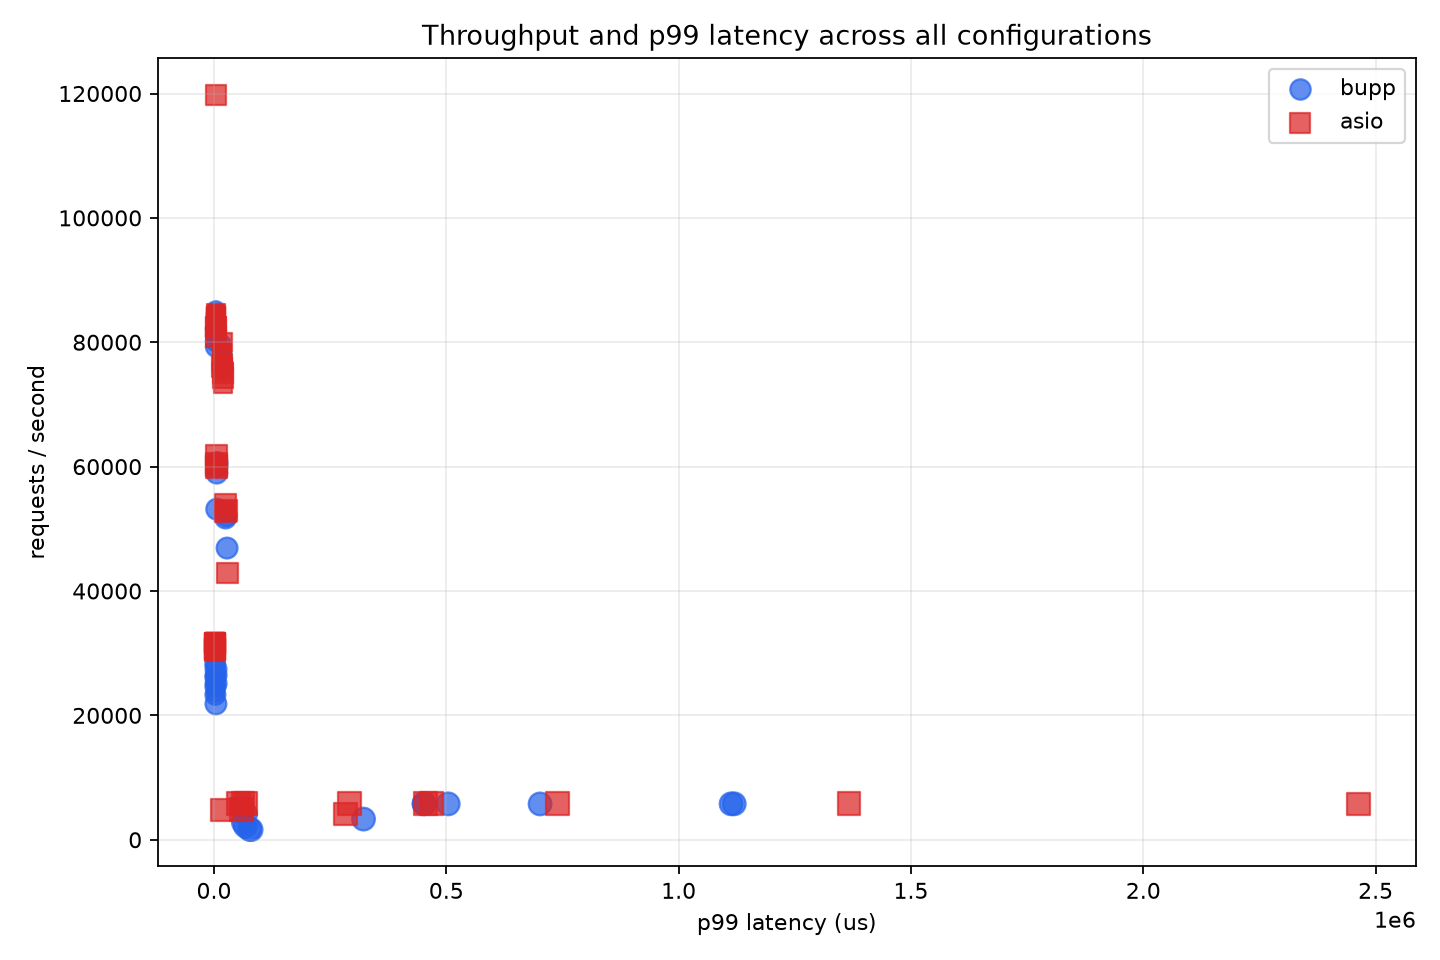
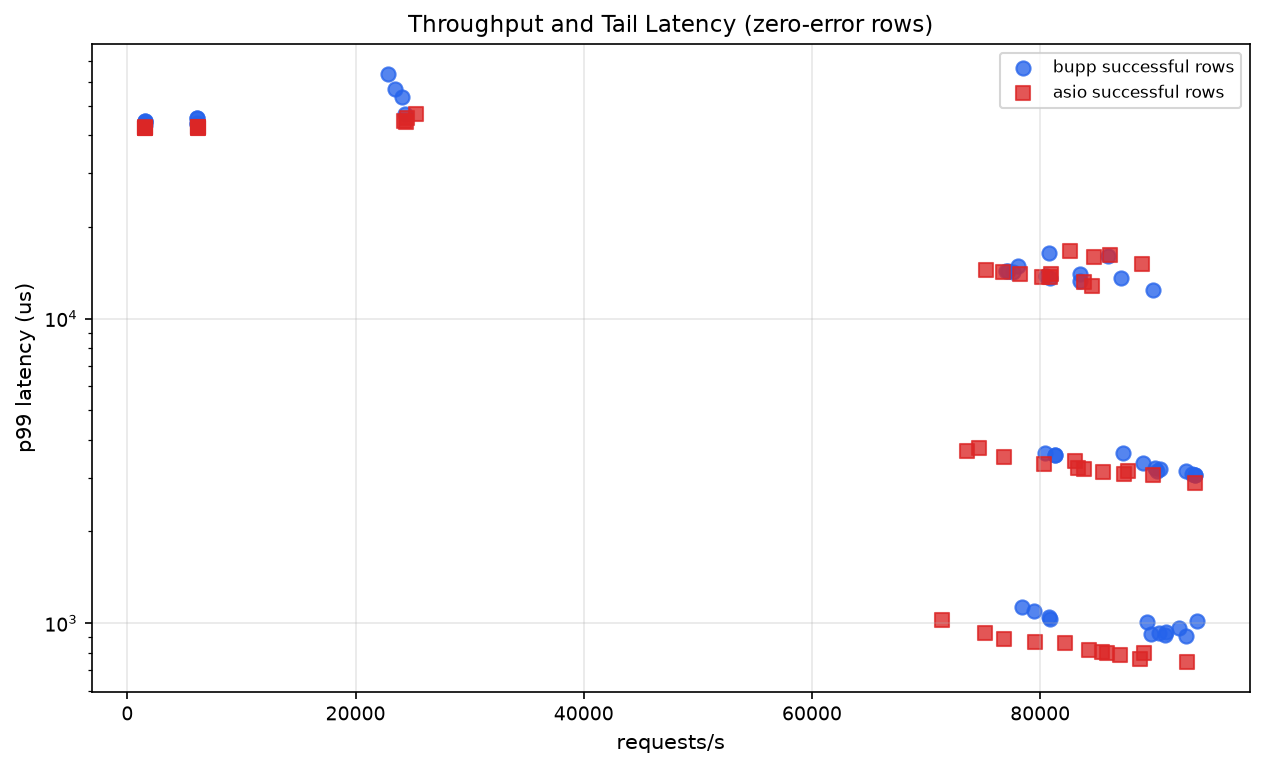
docs: update benchmark report

diff --git a/docs/benchmark.md b/docs/benchmark.md
@@ -2,16 +2,23 @@
 
 ## 1. Test Environment
 
-| Item | Server | Client |
-| --- | --- | --- |
-| OS | Linux | Linux |
-| Kernel | 6.6.119-49.27.tl4.x86_64 | 6.6.119-49.27.tl4.x86_64 |
-| Architecture | x86_64 | x86_64 |
-| CPU | Intel(R) Xeon(R) Gold 6148 CPU @ 2.40GHz | AMD EPYC 9K65 192-Core Processor |
-| Logical CPUs | 8 | 8 |
-| Python | 3.11.6 | 3.11.6 |
+| Item | Value |
+| --- | --- |
+| Date | 2026-07-12 (Asia/Shanghai) |
+| Topology | Single-host loopback TCP |
+| OS | Fedora Linux 44 (Workstation Edition) |
+| Kernel | 7.1.3-200.fc44.x86_64 |
+| Architecture | x86_64 |
+| CPU | 13th Gen Intel(R) Core(TM) i9-13900H |
+| Logical CPUs | 20 |
+| Compiler | GCC 16.1.1 |
+| CMake | 4.3.0 |
+| Python | 3.14.6 |
+| liburing | 2.13 |
+| OpenSSL | 3.5.7 |
+| Asio | 1.30.2 |
 
-Hostnames, usernames, absolute paths, and IP addresses are intentionally omitted from this report.
+Hostnames, usernames, absolute paths, and network addresses are intentionally omitted from this report.
 
 ## 2. Methodology
 
@@ -19,17 +26,17 @@ The benchmark compares two functionally equivalent TCP echo servers:
 
 - `bupp_raw_echo`: C++20 coroutine echo server using bupp on io_uring.
 - `asio_raw_echo`: C++20 coroutine echo server using standalone Asio.
-- Client: a neutral Python `asyncio` TCP echo load generator running on a separate client machine.
+- Client: a neutral Python `asyncio` TCP echo load generator.
 
-Each connection runs a strict ping-pong loop: send one fixed-size payload, read the echoed payload, then repeat. The warmup phase is excluded from the recorded throughput and latency samples.
+Each connection runs a strict ping-pong loop: send one fixed-size payload, read the echoed payload, then repeat. The warmup phase is excluded from throughput and latency samples. Latency values are sampled round-trip times in microseconds. Throughput is reported as completed echo requests per second; MB/s counts the echoed payload size once per completed request.
 
 Fairness controls:
 
-- Both servers are rebuilt in Release mode immediately before the benchmark.
-- The same remote client script drives both servers.
-- The server process is restarted for every measured configuration.
-- The client raises its `nofile` soft limit before high-concurrency runs.
-- The server INPUT firewall policy observed by the runner was `ACCEPT`; remote TCP connectivity was checked before each measured run.
+- Both servers were rebuilt in Release mode immediately before testing.
+- The same client drove both servers.
+- The server process was restarted for every measured configuration.
+- The process `nofile` soft limit was raised before high-concurrency runs.
+- Every result row records the client-side error count. Rows with errors are not treated as clean throughput wins.
 
 ## 3. Configuration Matrix
 
@@ -40,12 +47,10 @@ Fairness controls:
 | Concurrent connections | 64, 256, 1024 |
 | Message size | 64 B, 1 KB, 4 KB, 64 KB |
 | Warmup per run | 10 s |
-| Measurement per run | 30 s |
+| Measurement per run | 60 s |
 | Repeats | 1 |
 
-All 96 main-matrix configurations completed successfully. The main matrix uses one longer measurement window per configuration; isolated peaks should be interpreted with that limitation in mind.
-
-Latency values are sampled round-trip times in microseconds. Throughput is reported as completed echo requests per second; MB/s counts the echoed payload size once per completed request.
+The main matrix produced 96 rows. Both bupp and Asio completed all 48 rows with zero client errors and no zero-throughput rows. This run therefore compares clean throughput and latency rather than mixing throughput with connection-error behavior.
 
 ## 4. Results
 
@@ -53,149 +58,157 @@ Latency values are sampled round-trip times in microseconds. Throughput is repor
 
 ![Throughput Overview](benchmark_charts/overview_bars.png)
 
-| Message Size | bupp req/s | asio req/s | Ratio | bupp p50 | asio p50 | bupp p99 | asio p99 |
-| --- | ---: | ---: | ---: | ---: | ---: | ---: | ---: |
-| 64 B | 85,167 | 84,651 | 1.01x | 2,976 us | 3,016 us | 3,963 us | 3,599 us |
-| 1 KB | 82,178 | 119,780 | 0.69x | 3,075 us | 2,110 us | 3,908 us | 3,426 us |
-| 4 KB | 59,985 | 61,875 | 0.97x | 4,181 us | 4,106 us | 6,273 us | 4,988 us |
-| 64 KB | 5,794 | 5,817 | 1.00x | 19,255 us | 16,603 us | 452,043 us | 455,680 us |
+| Message Size | bupp req/s | bupp errors | asio req/s | asio errors | Ratio | bupp p50 | asio p50 | bupp p99 | asio p99 |
+| --- | ---: | ---: | ---: | ---: | ---: | ---: | ---: | ---: | ---: |
+| 64 B | 93,333 | 0 | 87,347 | 0 | 1.07x | 2,740 us | 2,920 us | 3,093 us | 3,079 us |
+| 1 KB | 90,470 | 0 | 83,290 | 0 | 1.09x | 2,826 us | 3,063 us | 3,208 us | 3,218 us |
+| 4 KB | 81,284 | 0 | 73,626 | 0 | 1.10x | 3,145 us | 3,466 us | 3,560 us | 3,660 us |
+| 64 KB | 6,127 | 0 | 6,225 | 0 | 0.98x | 41,822 us | 41,072 us | 43,970 us | 42,503 us |
 
-At the reference point, most rows are close enough that workload shape matters more than the library name. The 1 KB / 256-connection point showed noticeable run-to-run variance in the focused sweep, so it should be treated as a high-water mark rather than a durable 30%+ gap. Small payloads emphasize event-loop overhead, while larger payloads increasingly shift the bottleneck into the TCP stack, memory copies, and the remote client.
+At the reference point, every row completed with zero client errors. bupp was ahead by 7-10% from 64 B through 4 KB, with similar p99 latency. At 64 KB the two implementations were effectively at parity: Asio was 2% higher in request rate and had a lower p99, which is consistent with the workload shifting from event-loop overhead toward TCP buffering, memory copies, and client-side scheduling.
 
 ### 4.2 Throughput vs Connections
 
 ![Throughput vs Connections](benchmark_charts/throughput_vs_connections.png)
 
-Connection scaling is not monotonic for every payload size. With small messages, request rate is dominated by scheduling and completion overhead. With large messages, more concurrent connections can increase outstanding bytes on the wire, but the test becomes less sensitive to the server event library itself.
+Connection scaling is shown for workers=4. Small and medium payloads stay in a narrow throughput band as connections increase because the ping-pong client and loopback scheduling dominate once enough requests are in flight. The 64 KB rows scale differently: more concurrent connections increase outstanding bytes and therefore MB/s, while per-request latency stays much higher than the small-payload cases.
 
 ### 4.3 Throughput vs Worker Threads
 
 ![Throughput vs Workers](benchmark_charts/throughput_vs_workers.png)
 
-| Workers | bupp req/s | asio req/s | Ratio |
-| ---: | ---: | ---: | ---: |
-| 1 | 53,159 | 59,910 | 0.89x |
-| 2 | 58,962 | 60,563 | 0.97x |
-| 4 | 59,985 | 61,875 | 0.97x |
-| 8 | 60,660 | 60,180 | 1.01x |
+| Workers | bupp req/s | bupp errors | asio req/s | asio errors | Ratio |
+| ---: | ---: | ---: | ---: | ---: | ---: |
+| 1 | 87,219 | 0 | 83,036 | 0 | 1.05x |
+| 2 | 81,305 | 0 | 76,847 | 0 | 1.06x |
+| 4 | 81,284 | 0 | 73,626 | 0 | 1.10x |
+| 8 | 80,409 | 0 | 74,675 | 0 | 1.08x |
 
-Worker scaling should be read together with the client-side limit. Once the remote Python client or network path is saturated, adding server workers no longer translates directly into higher request rate.
+For 4 KB / 256 connections, bupp stayed ahead of Asio across all worker counts, from 1.05x at one worker to 1.10x at four workers. Neither implementation scales linearly in this fixed-client loopback setup; adding server workers mostly redistributes scheduler work after the client and kernel path are already saturated.
 
 ### 4.4 Latency
 
 ![Latency Comparison](benchmark_charts/latency_comparison.png)
 
-Median latency mostly tracks the number of concurrent ping-pong loops. Tail latency is more sensitive to batching, scheduler wakeups, TCP buffering, and client runtime pauses.
+Median latency mostly tracks connection count and payload size. The 64 B through 4 KB rows sit in the low-millisecond range at 256 connections, while 64 KB rows are around 41-44 ms because each request carries much more data through the same ping-pong loop.
 
 ### 4.5 bupp/asio Ratio Heatmap
 
 ![Heatmap Ratio](benchmark_charts/heatmap_ratio.png)
 
-Positive cells mean bupp has higher throughput than asio for that worker/connection point; negative cells mean asio is ahead.
+Positive cells mean bupp has higher measured throughput than asio for that worker/connection point. All cells in this run are zero-error comparisons, so the heatmap can be read directly as relative throughput.
 
 ### 4.6 Throughput and Tail Latency Scatter
 
 ![Throughput Latency Scatter](benchmark_charts/throughput_latency_scatter.png)
 
-The scatter plot shows the expected trade-off: configurations with very high request rates often sit in the low-payload region, while high-payload configurations trade request rate for higher per-request latency.
+The scatter plot includes the zero-error rows from both implementations. Small payloads cluster at high request rate and low p99 latency; 64 KB rows trade request rate for much higher per-request latency.
 
-### 4.7 Best and Worst Relative Cases
+### 4.7 Best and Hardest Relative Cases
 
-Best bupp/asio throughput ratio:
+Best zero-error bupp/asio throughput ratio:
+
+- Configuration: workers=8, connections=256, message_size=64 B
+- bupp: 93,532 req/s, errors 0, p99 3,068 us
+- asio: 83,870 req/s, errors 0, p99 3,201 us
+- Ratio: 1.12x
+
+Most challenging zero-error bupp/asio throughput ratio:
 
 - Configuration: workers=1, connections=1024, message_size=4 KB
-- bupp: 46,906 req/s, p99 28,175 us
-- asio: 42,891 req/s, p99 29,895 us
-- Ratio: 1.09x
+- bupp: 80,733 req/s, errors 0, p99 16,442 us
+- asio: 88,900 req/s, errors 0, p99 15,094 us
+- Ratio: 0.91x
 
-Most challenging bupp/asio throughput ratio:
+Error summary:
 
-- Configuration: workers=2, connections=64, message_size=64 KB
-- bupp: 1,694 req/s, p99 76,384 us
-- asio: 5,794 req/s, p99 52,545 us
-- Ratio: 0.29x
+- No bupp or Asio result row reported client errors.
 
 ### 4.8 bupp Queue/Flush Tuning Sweep
 
 ![Queue Tuning Sweep](benchmark_charts/queue_tuning_sweep.png)
 
-This focused sweep used 5 s warmup and 20 s measurement per point. It is not a full replacement for the main matrix; it checks whether bupp's queue length and timer flush values are worth tuning.
+The focused sweep used the same 10 s warmup and 60 s measurement window as the main matrix. It checks whether bupp's queue length and timer flush values change the 4-worker small-message/high-concurrency behavior.
 
-| Queue / flush | Connections | Size | req/s | p50 us | p99 us |
-| --- | ---: | ---: | ---: | ---: | ---: |
-| 16 / 100 us | 256 | 64 B | 83,592 | 3,017 | 3,822 |
-| 16 / 100 us | 256 | 1 KB | 81,288 | 3,120 | 3,829 |
-| 16 / 100 us | 1024 | 64 B | 76,121 | 12,970 | 19,392 |
-| 16 / 100 us | 1024 | 1 KB | 73,344 | 13,530 | 19,218 |
-| 32 / 250 us | 256 | 64 B | 119,864 | 2,112 | 3,345 |
-| 32 / 250 us | 256 | 1 KB | 81,595 | 3,098 | 4,108 |
-| 32 / 250 us | 1024 | 64 B | 77,918 | 12,780 | 17,750 |
-| 32 / 250 us | 1024 | 1 KB | 117,554 | 8,609 | 13,315 |
-| 64 / 1000 us | 256 | 64 B | 84,561 | 2,992 | 3,818 |
-| 64 / 1000 us | 256 | 1 KB | 114,644 | 2,206 | 3,539 |
-| 64 / 1000 us | 1024 | 64 B | 77,695 | 12,853 | 18,722 |
-| 64 / 1000 us | 1024 | 1 KB | 73,152 | 13,490 | 18,428 |
+| Queue / flush | Connections | Size | req/s | errors | p50 | p99 |
+| --- | ---: | ---: | ---: | ---: | ---: | ---: |
+| 16 / 100 us | 256 | 64 B | 92,326 | 0 | 2,767 us | 2,993 us |
+| 16 / 100 us | 256 | 1 KB | 90,572 | 0 | 2,822 us | 3,044 us |
+| 16 / 100 us | 1024 | 64 B | 84,727 | 0 | 12,198 us | 12,921 us |
+| 16 / 100 us | 1024 | 1 KB | 78,407 | 0 | 13,190 us | 13,864 us |
+| 32 / 250 us | 256 | 64 B | 93,064 | 0 | 2,746 us | 3,031 us |
+| 32 / 250 us | 256 | 1 KB | 90,442 | 0 | 2,827 us | 3,110 us |
+| 32 / 250 us | 1024 | 64 B | 101,879 | 0 | 8,870 us | 12,834 us |
+| 32 / 250 us | 1024 | 1 KB | 77,686 | 0 | 13,296 us | 15,140 us |
+| 64 / 1000 us | 256 | 64 B | 93,330 | 0 | 2,738 us | 3,111 us |
+| 64 / 1000 us | 256 | 1 KB | 91,135 | 0 | 2,806 us | 3,174 us |
+| 64 / 1000 us | 1024 | 64 B | 83,428 | 0 | 12,383 us | 13,600 us |
+| 64 / 1000 us | 1024 | 1 KB | 77,657 | 0 | 13,330 us | 14,204 us |
 
-256 connections / 64 B: `32 / 250 us` was fastest at 119,864 req/s (p99 3,345 us); 256 connections / 1 KB: `64 / 1000 us` was fastest at 114,644 req/s (p99 3,539 us); 1024 connections / 64 B: `32 / 250 us` was fastest at 77,918 req/s (p99 17,750 us); 1024 connections / 1 KB: `32 / 250 us` was fastest at 117,554 req/s (p99 13,315 us).
+All sweep rows completed with zero client errors. No single queue/flush pair won every point: the default `64 / 1000 us` setting was strongest at 256 connections, `32 / 250 us` was materially better for 1024 connections / 64 B, and `16 / 100 us` was slightly ahead for 1024 connections / 1 KB. The practical takeaway is that flush cadence matters most for high-concurrency small messages; the default remains a balanced baseline, but shorter flush intervals can reduce waiting time in specific ping-pong shapes.
 
-Raw tuning data: `.artifacts/results/tuning_q16_f100`, `.artifacts/results/tuning_q32_f250`, `.artifacts/results/tuning_q64_f1000`.
-
-The sweep shows that tuning can matter. The default `64 / 1000 us` setting is a reasonable baseline, but `32 / 250 us` was materially better on the tested high-concurrency 1 KB point. The 256-connection / 1 KB point varied between runs, so the practical takeaway is not a single magic value; it is that the fixed 1 ms flush timer can leave performance on the table for some ping-pong workloads.
-
-## 5. Why bupp and Asio Differ
+## 5. Interpretation
 
 These are plausible explanations from the implementation model and the observed benchmark shape; they were not separately validated with profiling in this run.
 
-1. Asio's reactor path is very mature and lightweight for small socket operations. On tiny payloads, the fixed cost of dispatching one read and one write can dominate the actual data movement.
-2. bupp uses io_uring and queues I/O submissions for batching. That can reduce syscall pressure when enough work is available, but it can also add a small queueing delay for latency-sensitive tiny messages.
-3. bupp's one-context-per-worker style can scale well when there is enough parallel work. Asio can still be very competitive because socket echo is already a favorable workload for epoll-based readiness notification.
-4. At larger payload sizes, both implementations spend more time in TCP, copying, and client-side processing. In that region the benchmark is less a pure comparison of async libraries.
-5. Because the client runs remotely, network path behavior and the Python asyncio client can cap absolute throughput. The relative comparison is still useful because both servers see the same client and network path.
+1. The current bupp single-worker and multi-worker paths are stable across the tested matrix. The absence of client errors on every bupp row is the most important stability signal in this run.
+2. bupp's advantage on 64 B through 4 KB at the reference point is consistent with batching io_uring submissions after the queued I/O path has enough work. The fixed ping-pong workload gives repeated read/write pairs that can benefit from lower submission overhead.
+3. The 64 KB rows are near parity because the bottleneck shifts away from event-loop dispatch and toward payload movement through TCP buffers, memory copies, and the Python client.
+4. Worker scaling is intentionally read as a shape, not a linear speedup claim. At 4 KB / 256 connections, adding server workers does not raise bupp throughput after one worker, which suggests the single-host client/kernel path is already the limiting factor.
+5. Queue/flush tuning affects small-message high-concurrency rows because it changes how long queued I/O waits before submission. Shorter intervals can help latency-sensitive ping-pong traffic, while the default is still competitive on the 256-connection points.
 
-## 6. Full Results
+## 6. Key Logs and Checks
 
-The table below shows the aggregated rows for workers=4. Full per-repeat JSON is preserved under `.artifacts/results/remote_echo_20260710T101119Z`.
+- Build: Release configure and raw echo target build completed successfully.
+- Smoke test: bupp and Asio each completed a 16-connection / 64 B short run with zero errors before the main matrix.
+- Main matrix: completed 96/96 result rows.
+- Error summary: Asio error rows 0/48; bupp error rows 0/48; bupp total client errors 0; bupp zero-throughput rows 0.
+- Focused tuning sweep: completed 12/12 bupp rows with zero client errors.
+
+## 7. Full Results
+
+The table below shows the aggregated rows for workers=4. Error counts are included to make correctness visible; all rows shown here were clean.
 
 #### message_size = 64 B
 
-| server | workers | connections | req/s | MB/s | p50 us | p99 us | p999 us |
-| --- | ---: | ---: | ---: | ---: | ---: | ---: | ---: |
-| asio | 4 | 64 | 31,765 | 1.9 | 2,002 | 2,130 | 2,227 |
-| asio | 4 | 256 | 84,651 | 5.2 | 3,016 | 3,599 | 3,961 |
-| asio | 4 | 1024 | 73,201 | 4.5 | 13,465 | 19,674 | 24,787 |
-| bupp | 4 | 64 | 26,524 | 1.6 | 2,364 | 2,938 | 3,170 |
-| bupp | 4 | 256 | 85,167 | 5.2 | 2,976 | 3,963 | 4,939 |
-| bupp | 4 | 1024 | 77,002 | 4.7 | 12,752 | 18,675 | 21,549 |
+| server | workers | connections | req/s | MB/s | errors | p50 | p99 | p999 |
+| --- | ---: | ---: | ---: | ---: | ---: | ---: | ---: | ---: |
+| asio | 4 | 64 | 86,995 | 5.3 | 0 | 733 us | 784 us | 838 us |
+| asio | 4 | 256 | 87,347 | 5.3 | 0 | 2,920 us | 3,079 us | 3,361 us |
+| asio | 4 | 1024 | 80,130 | 4.9 | 0 | 12,907 us | 13,736 us | 15,781 us |
+| bupp | 4 | 64 | 92,167 | 5.6 | 0 | 694 us | 964 us | 1,016 us |
+| bupp | 4 | 256 | 93,333 | 5.7 | 0 | 2,740 us | 3,093 us | 3,371 us |
+| bupp | 4 | 1024 | 80,848 | 4.9 | 0 | 12,776 us | 13,632 us | 15,806 us |
 
 #### message_size = 1 KB
 
-| server | workers | connections | req/s | MB/s | p50 us | p99 us | p999 us |
-| --- | ---: | ---: | ---: | ---: | ---: | ---: | ---: |
-| asio | 4 | 64 | 31,664 | 30.9 | 2,007 | 2,142 | 2,233 |
-| asio | 4 | 256 | 119,780 | 117.0 | 2,110 | 3,426 | 3,603 |
-| asio | 4 | 1024 | 76,042 | 74.3 | 13,100 | 17,834 | 19,290 |
-| bupp | 4 | 64 | 26,143 | 25.5 | 2,390 | 3,046 | 3,303 |
-| bupp | 4 | 256 | 82,178 | 80.3 | 3,075 | 3,908 | 4,728 |
-| bupp | 4 | 1024 | 76,534 | 74.7 | 13,146 | 18,322 | 19,962 |
+| server | workers | connections | req/s | MB/s | errors | p50 | p99 | p999 |
+| --- | ---: | ---: | ---: | ---: | ---: | ---: | ---: | ---: |
+| asio | 4 | 64 | 84,284 | 82.3 | 0 | 756 us | 817 us | 873 us |
+| asio | 4 | 256 | 83,290 | 81.3 | 0 | 3,063 us | 3,218 us | 3,500 us |
+| asio | 4 | 1024 | 76,742 | 74.9 | 0 | 13,601 us | 14,267 us | 15,827 us |
+| bupp | 4 | 64 | 89,377 | 87.3 | 0 | 715 us | 1,006 us | 1,067 us |
+| bupp | 4 | 256 | 90,470 | 88.3 | 0 | 2,826 us | 3,208 us | 3,519 us |
+| bupp | 4 | 1024 | 77,638 | 75.8 | 0 | 13,321 us | 14,207 us | 15,698 us |
 
 #### message_size = 4 KB
 
-| server | workers | connections | req/s | MB/s | p50 us | p99 us | p999 us |
-| --- | ---: | ---: | ---: | ---: | ---: | ---: | ---: |
-| asio | 4 | 64 | 30,552 | 119.3 | 2,085 | 2,259 | 3,029 |
-| asio | 4 | 256 | 61,875 | 241.7 | 4,106 | 4,988 | 5,614 |
-| asio | 4 | 1024 | 53,958 | 210.8 | 18,606 | 24,730 | 26,746 |
-| bupp | 4 | 64 | 26,440 | 103.3 | 2,333 | 4,498 | 5,025 |
-| bupp | 4 | 256 | 59,985 | 234.3 | 4,181 | 6,273 | 7,325 |
-| bupp | 4 | 1024 | 52,827 | 206.4 | 19,189 | 24,640 | 26,475 |
+| server | workers | connections | req/s | MB/s | errors | p50 | p99 | p999 |
+| --- | ---: | ---: | ---: | ---: | ---: | ---: | ---: | ---: |
+| asio | 4 | 64 | 75,142 | 293.5 | 0 | 848 us | 926 us | 1,006 us |
+| asio | 4 | 256 | 73,626 | 287.6 | 0 | 3,466 us | 3,660 us | 3,980 us |
+| asio | 4 | 1024 | 86,143 | 336.5 | 0 | 11,944 us | 16,161 us | 16,828 us |
+| bupp | 4 | 64 | 80,788 | 315.6 | 0 | 791 us | 1,050 us | 1,130 us |
+| bupp | 4 | 256 | 81,284 | 317.5 | 0 | 3,145 us | 3,560 us | 3,746 us |
+| bupp | 4 | 1024 | 85,914 | 335.6 | 0 | 11,914 us | 15,997 us | 16,895 us |
 
 #### message_size = 64 KB
 
-| server | workers | connections | req/s | MB/s | p50 us | p99 us | p999 us |
-| --- | ---: | ---: | ---: | ---: | ---: | ---: | ---: |
-| asio | 4 | 64 | 5,838 | 364.8 | 6,407 | 68,575 | 270,512 |
-| asio | 4 | 256 | 5,817 | 363.6 | 16,603 | 455,680 | 889,876 |
-| asio | 4 | 1024 | 5,782 | 361.4 | 60,877 | 1,366,521 | 3,436,437 |
-| bupp | 4 | 64 | 2,193 | 137.1 | 24,862 | 67,561 | 93,780 |
-| bupp | 4 | 256 | 5,794 | 362.1 | 19,255 | 452,043 | 885,258 |
-| bupp | 4 | 1024 | 5,777 | 361.1 | 66,545 | 1,119,716 | 3,067,933 |
+| server | workers | connections | req/s | MB/s | errors | p50 | p99 | p999 |
+| --- | ---: | ---: | ---: | ---: | ---: | ---: | ---: | ---: |
+| asio | 4 | 64 | 1,558 | 97.4 | 0 | 41,012 us | 42,183 us | 42,430 us |
+| asio | 4 | 256 | 6,225 | 389.1 | 0 | 41,072 us | 42,503 us | 43,136 us |
+| asio | 4 | 1024 | 24,513 | 1,532.0 | 0 | 41,777 us | 45,696 us | 51,627 us |
+| bupp | 4 | 64 | 1,514 | 94.6 | 0 | 42,179 us | 44,417 us | 45,441 us |
+| bupp | 4 | 256 | 6,127 | 382.9 | 0 | 41,822 us | 43,970 us | 45,912 us |
+| bupp | 4 | 1024 | 22,852 | 1,428.3 | 0 | 42,852 us | 63,653 us | 71,068 us |
